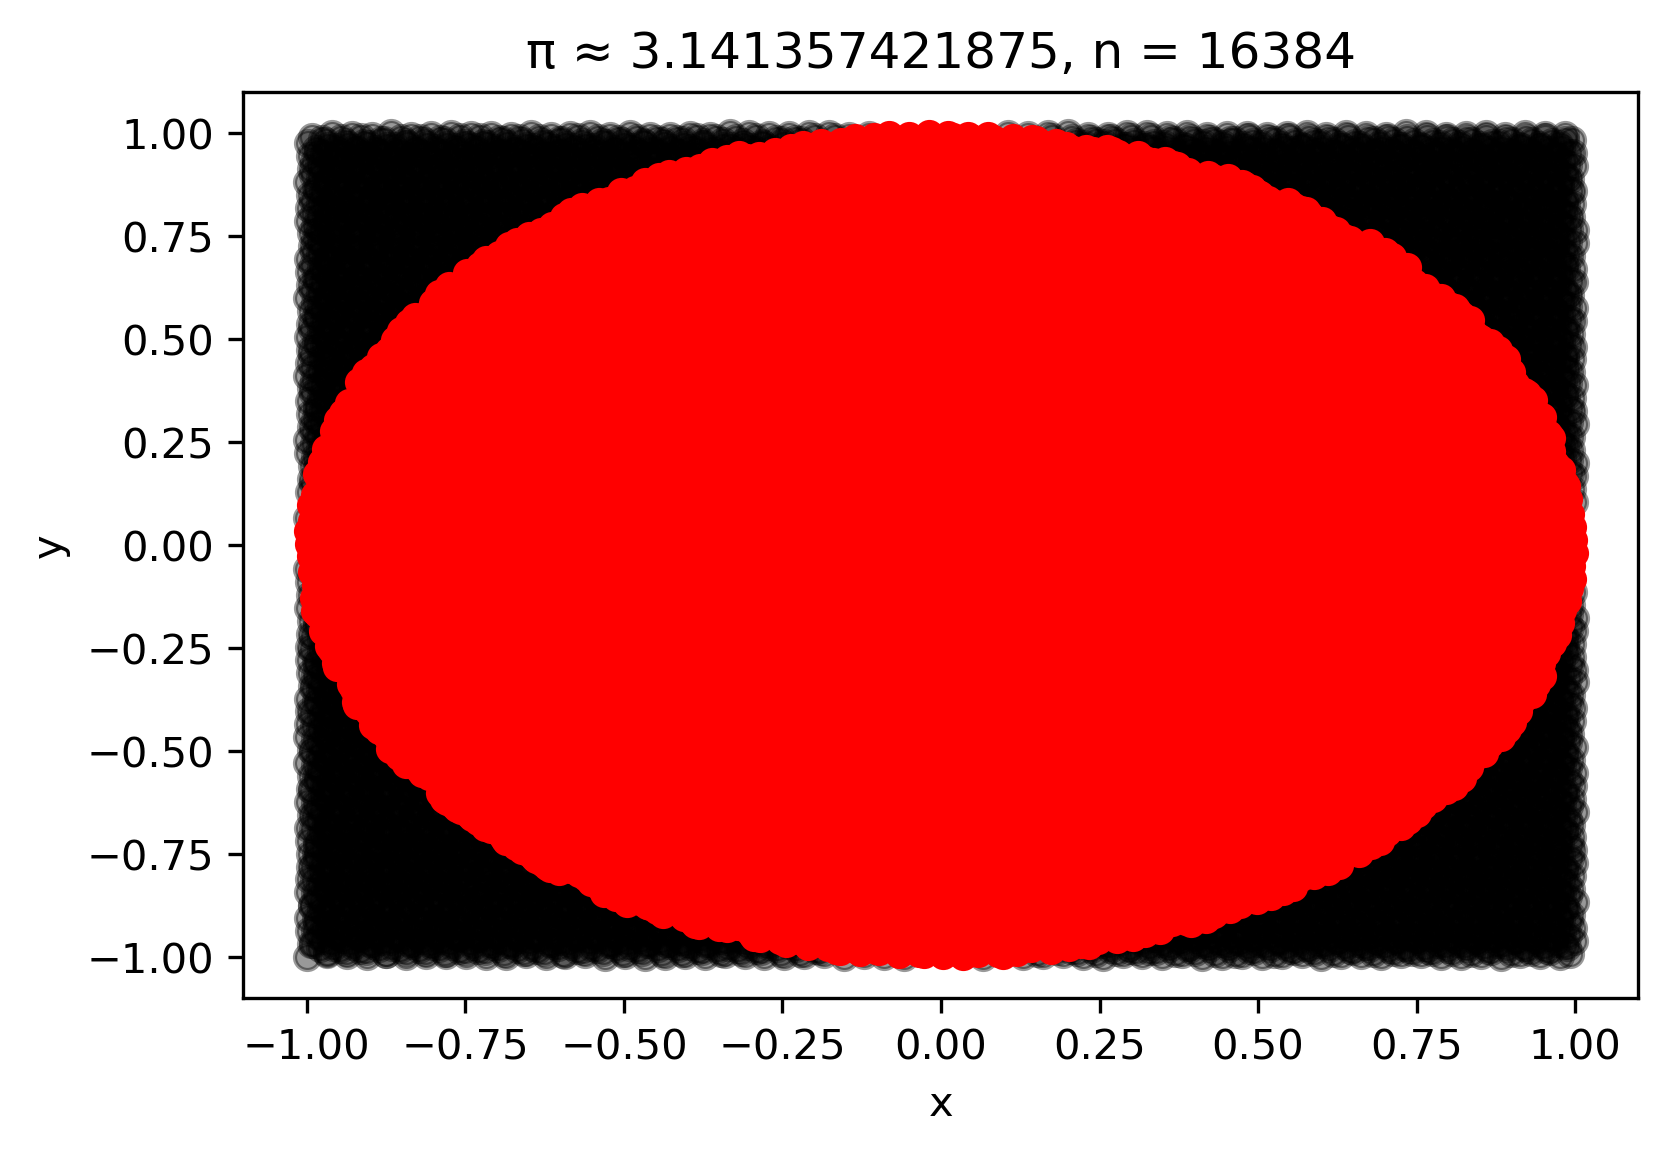
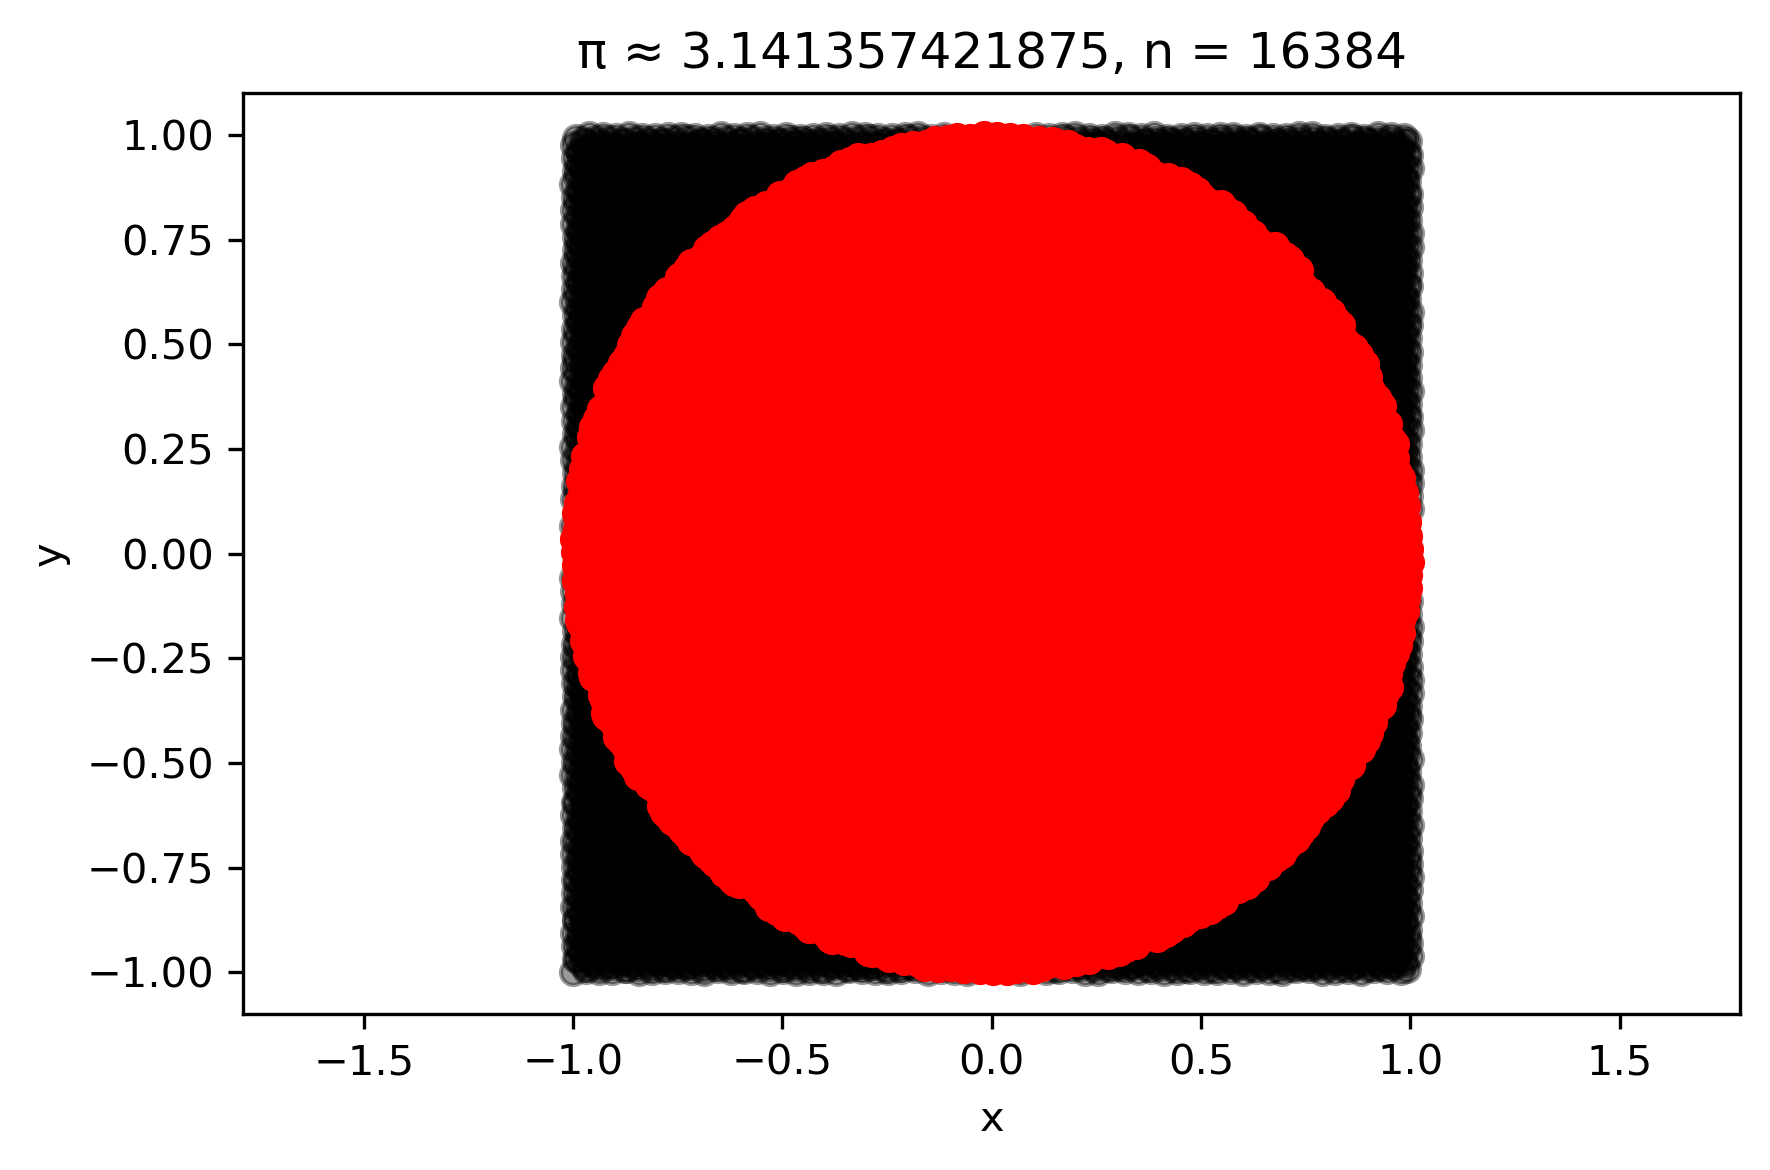
Updates to integration example

diff --git a/examples/integration/integration_example_monte_carlo_sim.py b/examples/integration/integration_example_monte_carlo_sim.py
@@ -1,6 +1,7 @@
 from scipy.stats import uniform
 from Monaco.MCSim import MCSim
 from Monaco.helper_functions import next_power_of_2
+import numpy as np
 
 # Define our functions
 def integration_example_preprocess(mccase):
@@ -22,7 +23,7 @@ fcns ={'preprocess' :integration_example_preprocess,   \
 # Integration best practices:
 savecasedata = False           # File I/O will crush performance, so recommended not to save case data
 samplemethod = 'sobol'         # Use 'sobol' over 'sobol_random' for a speedup, since all our dists are uniform
-ndraws = next_power_of_2(1e6)  # The sobol methods need to be a power of 2 for best performance and balance
+ndraws = next_power_of_2(1e4)  # The sobol methods need to be a power of 2 for best performance and balance
 firstcaseisnom = False         # Since we want a power of 2, we should not run a 'nominal' case which would add 1
 
 seed=12362397
@@ -50,7 +51,17 @@ def integration_example_monte_carlo_sim():
     import matplotlib.pyplot as plt
     indices_under_curve = [i for i, x in enumerate(sim.mcoutvars['is_under_curve'].vals) if x]
     fig, ax = mc_plot(sim.mcinvars['x'], sim.mcinvars['y'], highlight_cases=indices_under_curve)
+    ax.axis('equal')
     plt.title(resultsstr)
+    fig.tight_layout()
+    
+    pi_convergence = total_area*np.cumsum(sim.mcoutvars['is_under_curve'].nums)/np.arange(1, ndraws+1)
+    plt.figure()
+    plt.axhline(np.pi, color='k')
+    plt.plot(pi_convergence)
+    plt.ylim((3.1, 3.2))
+    plt.xlabel('Sample #')
+    plt.ylabel('Approx. value of π')
     #'''
     
     return sim

diff --git a/examples/integration/README.md b/examples/integration/README.md
@@ -1,8 +1,9 @@
 ## [Monaco](../../) - [Examples](../)
 
 ### Integration
-This calculates the value of pi by [Monte-Carlo integration](https://en.wikipedia.org/wiki/Monte_Carlo_integration), via the formula for the area of a circle *a = pi \* r^2*. Please note that Monaco is not particularly well suited for the use case of Monte-Carlo integration, as it requires a good bit of memory overhead to hold its data. My python session crashes somewhere between 1e6 and 1e7 random draws. A simple 'for' loop will likely have better performance, and this is a task that will greatly benefit from compilation. There are also much more efficient integration sampling methods out there, and anyone interested look into "stratified" or "importance" sampling.
+This calculates the value of pi by [Monte-Carlo integration](https://en.wikipedia.org/wiki/Monte_Carlo_integration), via the formula for the area of a circle *a = pi \* r^2*. Please note that Monaco is not particularly well suited for the use case of Monte-Carlo integration, as it requires a good bit of memory overhead to hold its data. My python session crashes somewhere between 1e6 and 1e7 random draws. A simple 'for' loop will likely have better performance, and this is a task that will greatly benefit from compilation. There are also much more efficient integration sampling methods out there, and anyone interested should look into "stratified" or "importance" sampling.
 
 <p float="left" align="center">
-<img width="400" height="300" src="./circle_integration.png">  
+<img width="440" height="300" src="./circle_integration.png">  
+<img width="440" height="300" src="./pi_convergence.png">  
 </p>
